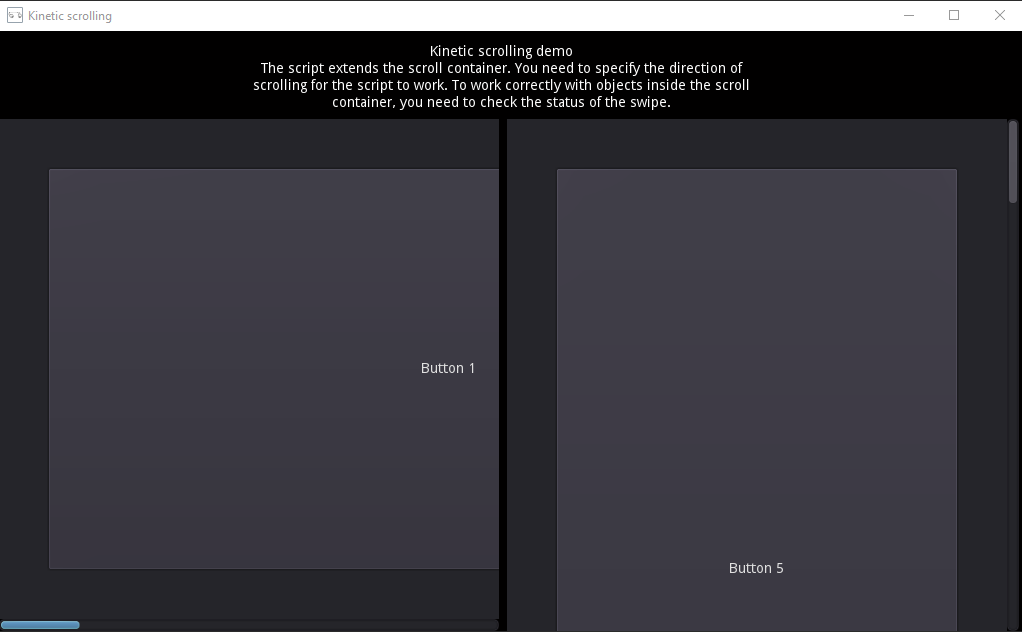
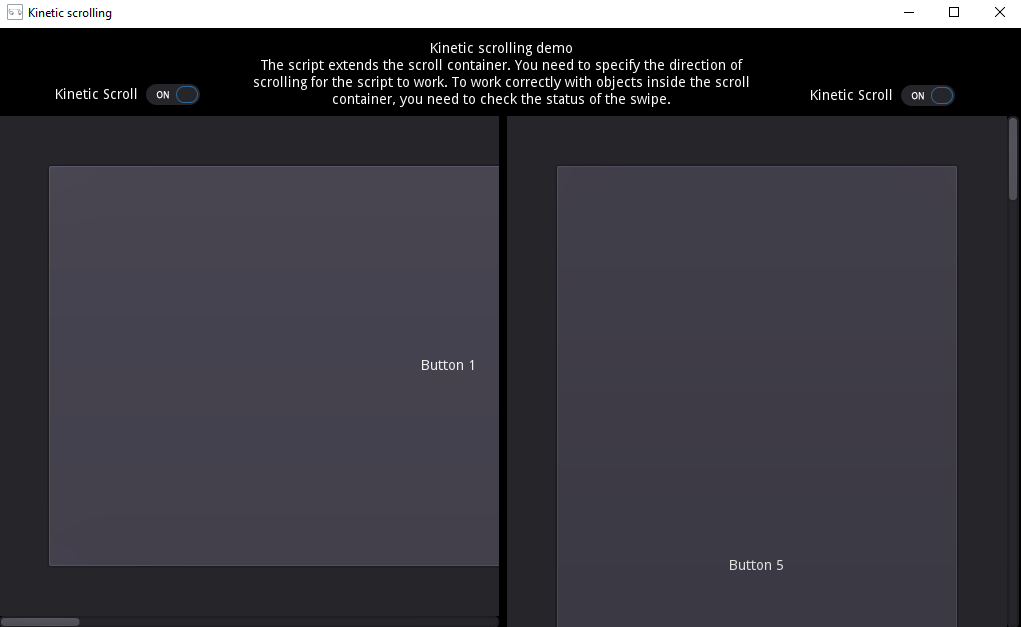
Add kineticScrollEnable

diff --git a/README.md b/README.md
@@ -5,7 +5,10 @@ This script extends the Godot ScrollContainer - adds kinetic scrolling and swipe
 ## How to use?
 Just connect **ScrollContainer.gd** to the ScrollContainer. To work correctly with objects inside the ScrollContainer, you need to check the status of the scroll (variable "swiping"). Watch the demo.
 
+Kinetic scroll uses the `_input` function. Therefore, in some cases, it is desirable to disable it. You can disable kinetic scrolling using the function `setKineticScrollEnable`
+
 The following **settings** are available: 
+* Kinetic Scroll Enable - variable allows you to disable the kinetic scroll;
 * Scroll Direction - variable determines the direction of the scroll;
 * Kinetic Scroll Time - variable specifies how long it will continue scrolling;
 * Kinetic Scroll Bias - variable determines the kinetic scroll length;
